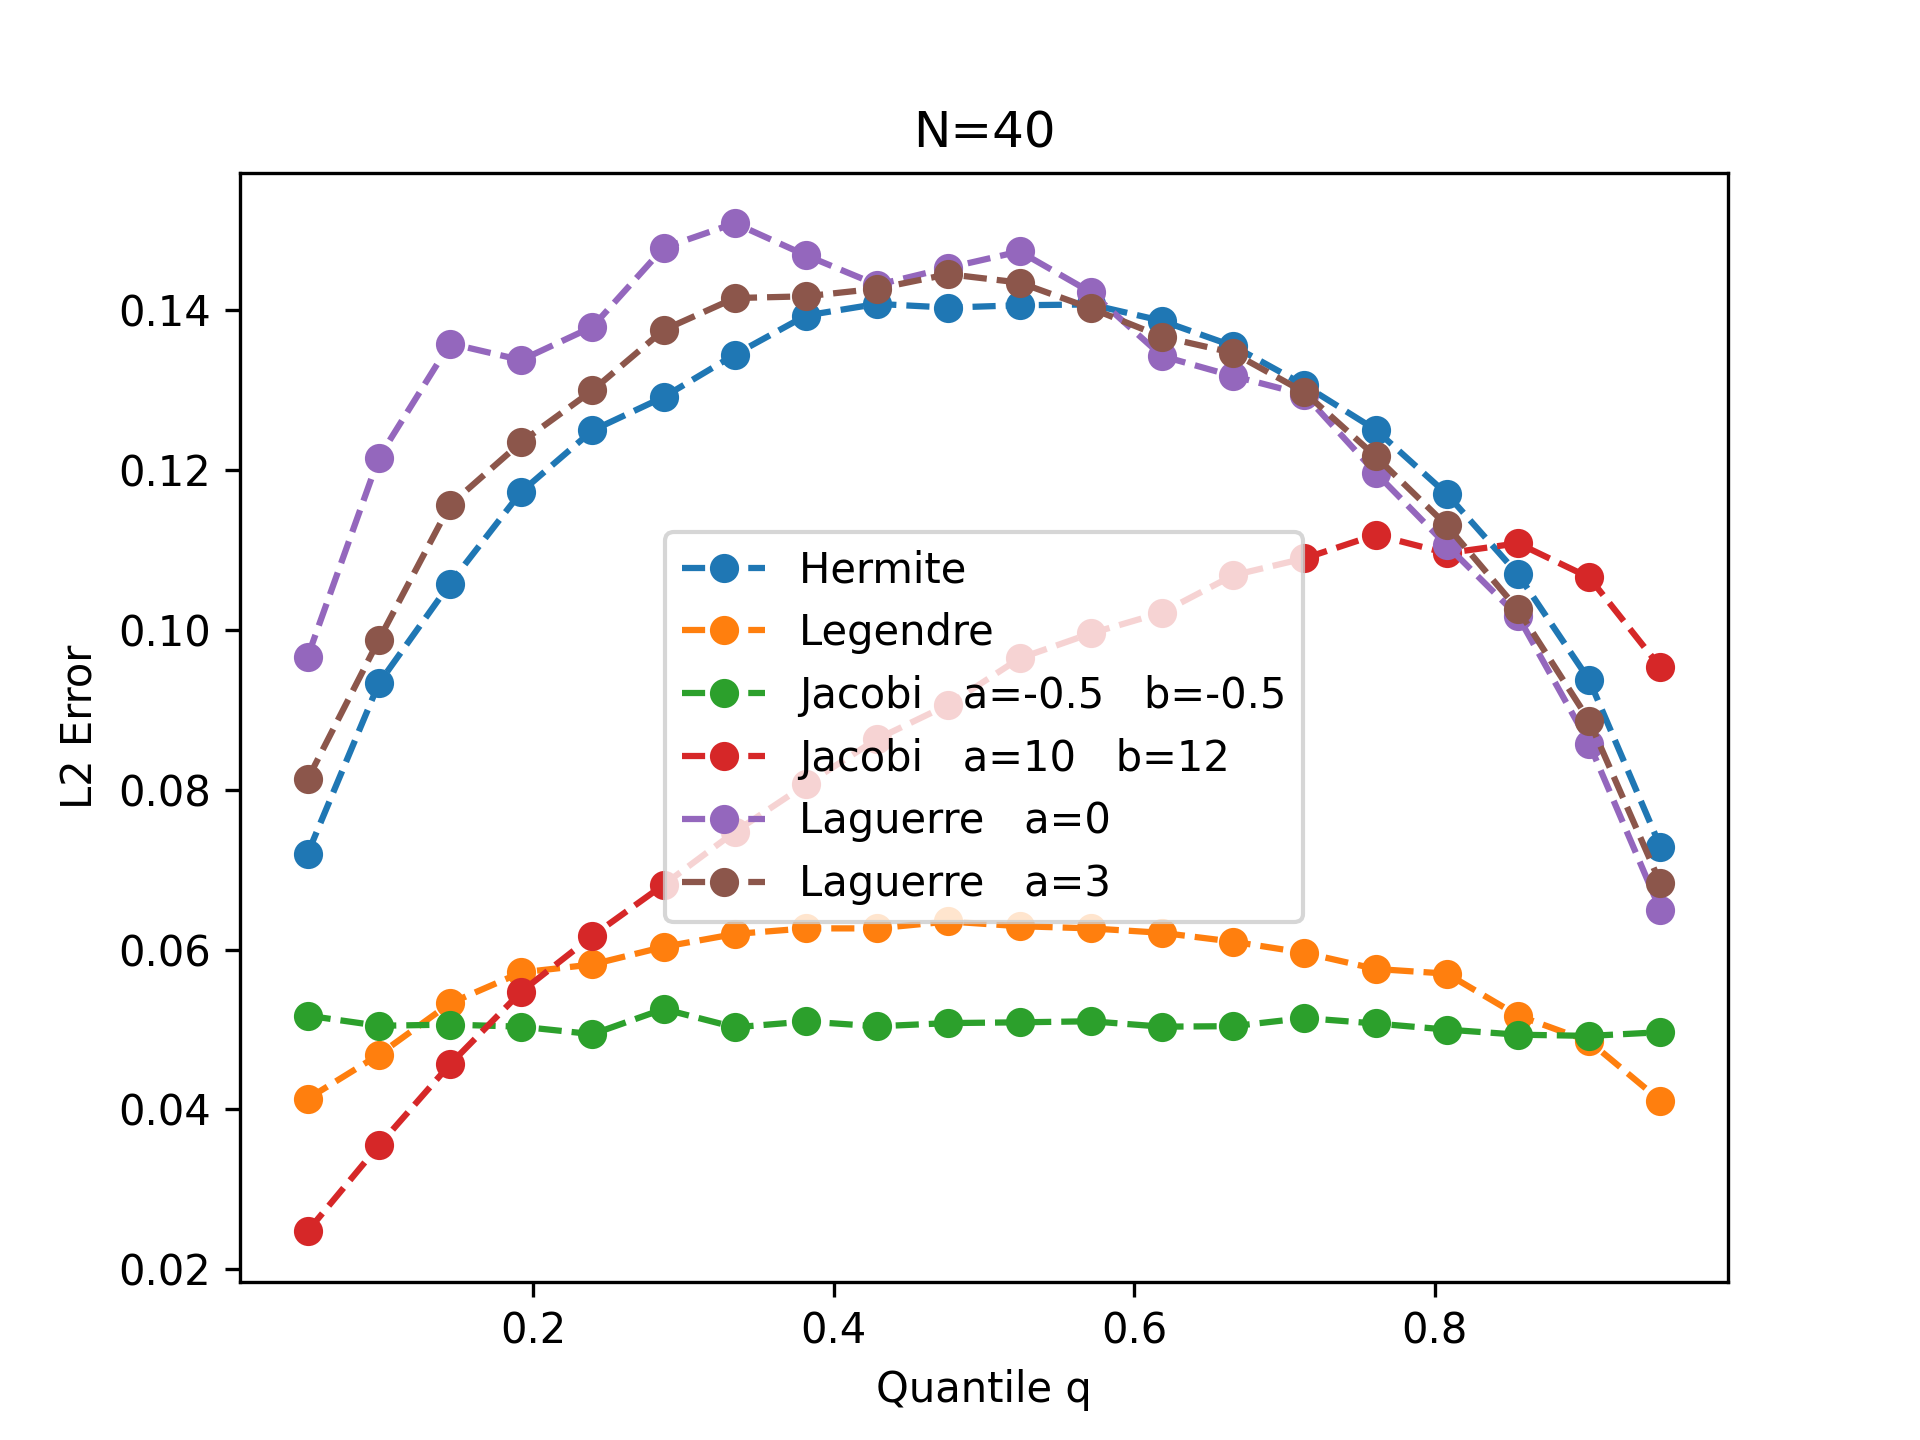
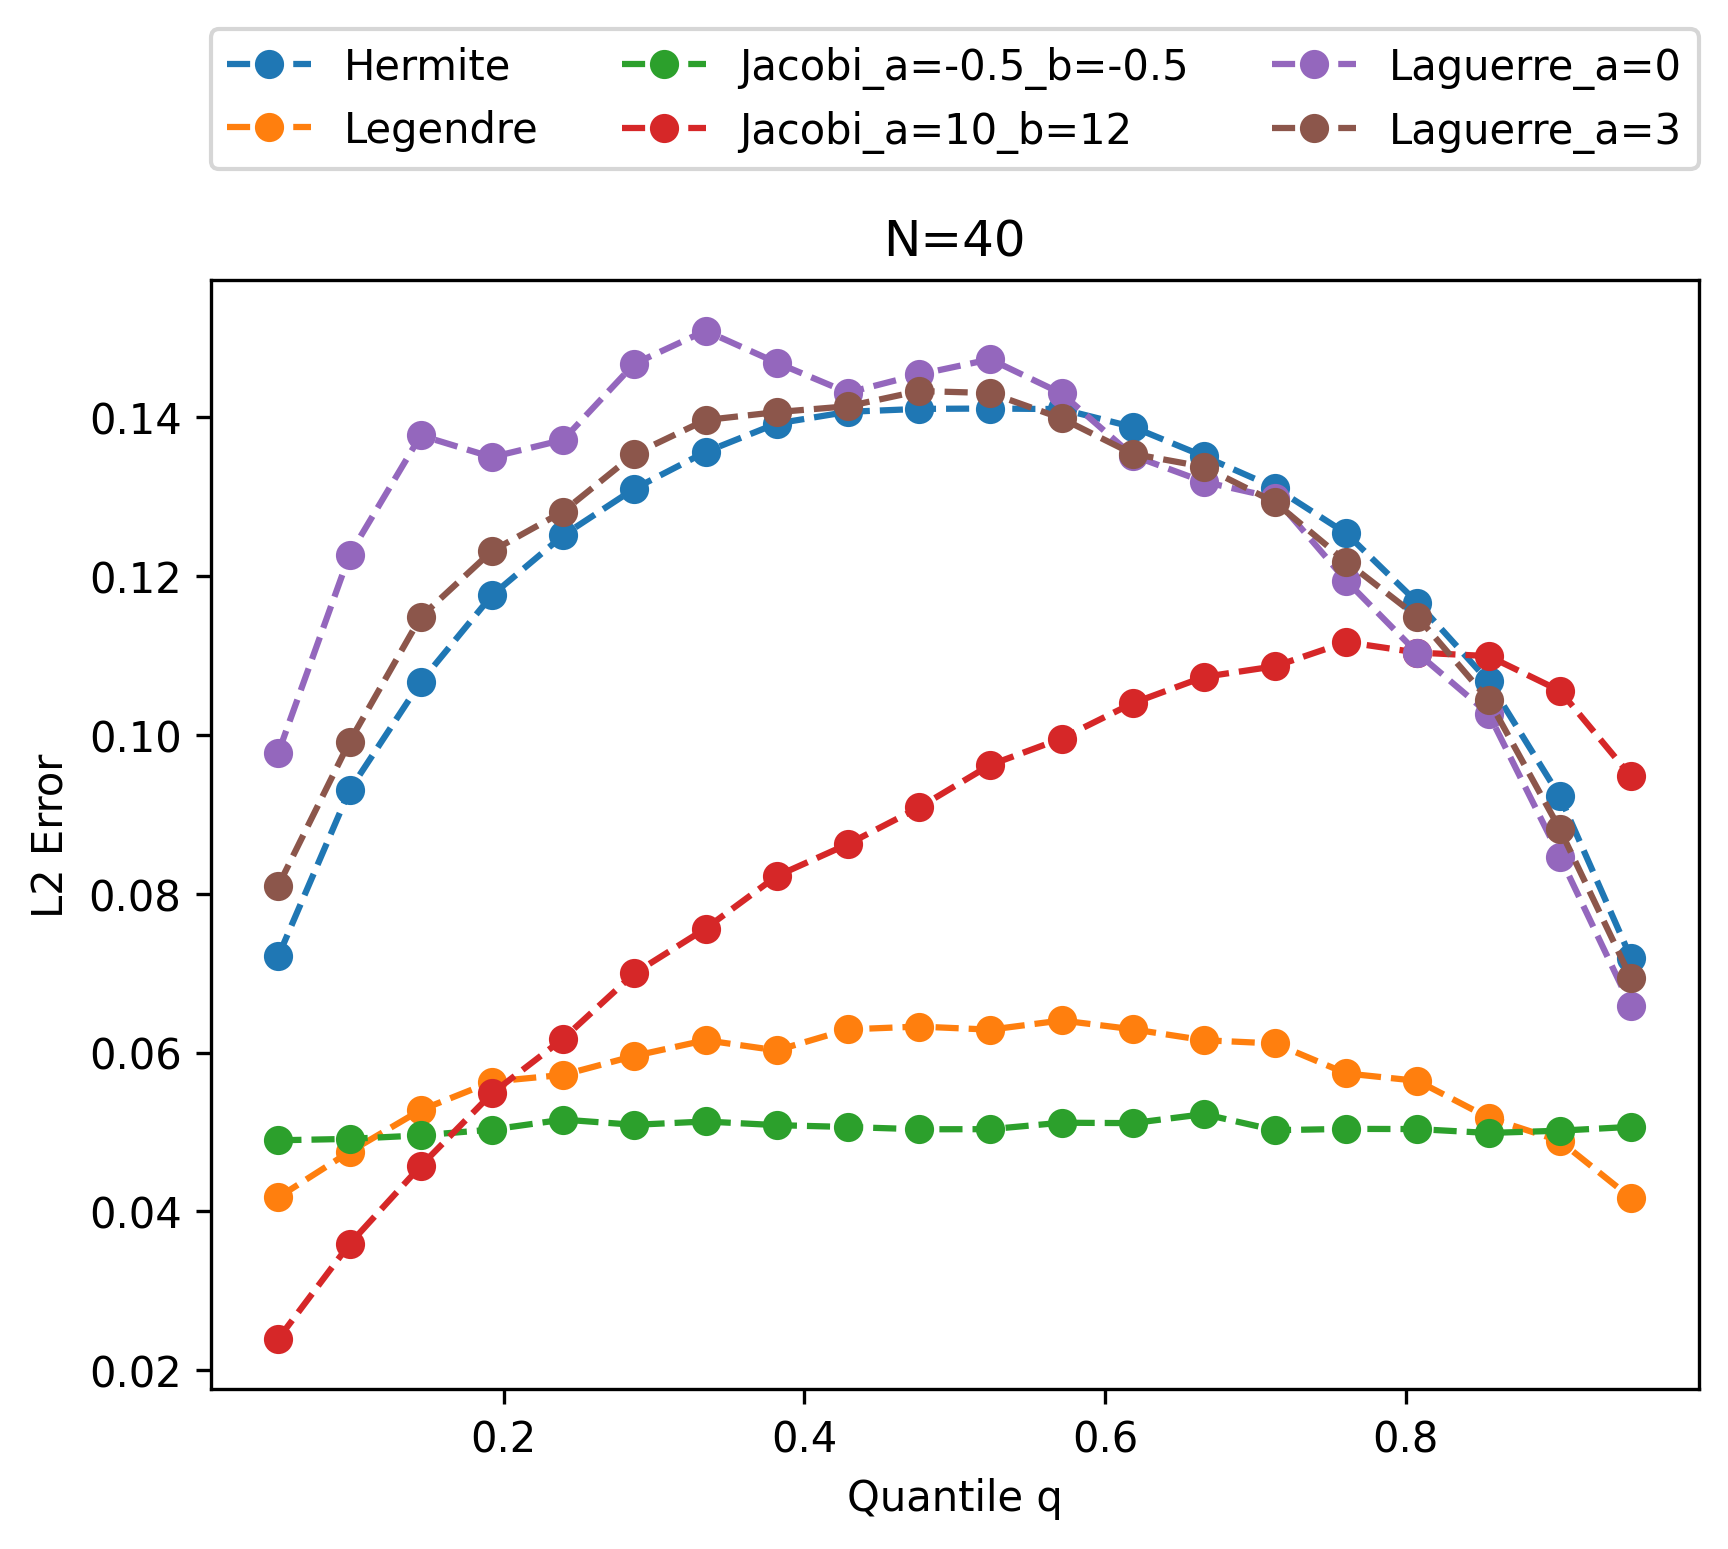
Moved the legend to the top of the plot.

Changed region(s): [[0.0, 0.0312, 1.0, 1.0], [0.875, 0.1562, 0.9062, 0.1875], [0.125, 0.1562, 0.1562, 0.1875]]

diff --git a/python/L2_error.py b/python/L2_error.py
@@ -32,7 +32,7 @@ def show_or_plot (path_suffix, config):
 		res_name = result_name(config)
 		full_path = path.join(res_name, path_suffix)
 		Path(full_path).parent.mkdir(parents=True, exist_ok=True)
-		plt.savefig(full_path, dpi=300)
+		plt.savefig(full_path, dpi=300, bbox_inches="tight")
 	
 	if config.show_plots:
 		plt.show()
@@ -112,7 +112,7 @@ def plot_jacobi_comp (config):
 	all_l2 = np.stack([ja.calc_all_l2(N, ja.c_quantile(all_q), size=n_sample) for ja in all_ja], axis=0)
 
 	plt.plot(all_q, all_l2.T, "--o")
-	plt.legend([ja.full_description() for ja in all_ja])
+	plt.legend([ja.full_description() for ja in all_ja], bbox_to_anchor=(0., 1.1, 1., .102), loc=3, ncol=3, mode="expand", borderaxespad=0.)
 	plt.xlabel("Quantile q")
 	plt.ylabel("L2 Error")
 	plt.title("N="+str(N))
@@ -135,7 +135,7 @@ def plot_cops_comp (N, config):
 	all_l2 = np.stack([ja.calc_all_l2(N, ja.c_quantile(all_q), size=n_sample) for ja in all_ja], axis=0)
 
 	plt.plot(all_q, all_l2.T, "--o")
-	plt.legend([ja.full_description() for ja in all_ja])
+	plt.legend([ja.full_description() for ja in all_ja], bbox_to_anchor=(0., 1.1, 1., .102), loc=3, ncol=3, mode="expand", borderaxespad=0.)
 	plt.xlabel("Quantile q")
 	plt.ylabel("L2 Error")
 	plt.title("N="+str(N))
@@ -164,7 +164,8 @@ def plot_error_ratio (N, config):
 	all_ratio = np.stack([ja.calc_all_l2(N, ja.c_quantile(all_q), size=n_sample) * ja.bound_inv(N, all_q) for ja in all_ja], axis=0)
 
 	plt.plot(all_q, all_ratio.T, "--o")
-	plt.legend([ja.full_description() for ja in all_ja])
+	plt.legend([ja.full_description() for ja in all_ja], bbox_to_anchor=(0., 1.1, 1., .102), loc=3, ncol=3, mode="expand", borderaxespad=0.)
+
 	plt.xlabel("Quantile q")
 	plt.ylabel("Ratio of L2 error and error estimate")
 	plt.title("N="+str(N))
@@ -244,20 +245,20 @@ def plot_test (debug=False):
 
 def main ():
 	# print_coefs()
-	config = Config(debug=False, save_plots=True, show_plots=False)
+	config = Config(debug=False, save_plots=True, show_plots=True)
 
-	plot_all_l2 (config)
+	# plot_all_l2 (config)
 
 	
 	plot_jacobi_comp(config)
 	plot_all_cops_comp (config)
 
-	plot_all_error_ratio (config)
+	# plot_all_error_ratio (config)
 
-	plot_small_quantile (config)
-	plot_high_quantile (config)
+	# plot_small_quantile (config)
+	# plot_high_quantile (config)
 
-	plot_test (debug=debug)
+	# plot_test (debug=debug)
 
 if __name__ == "__main__":
 	main()
